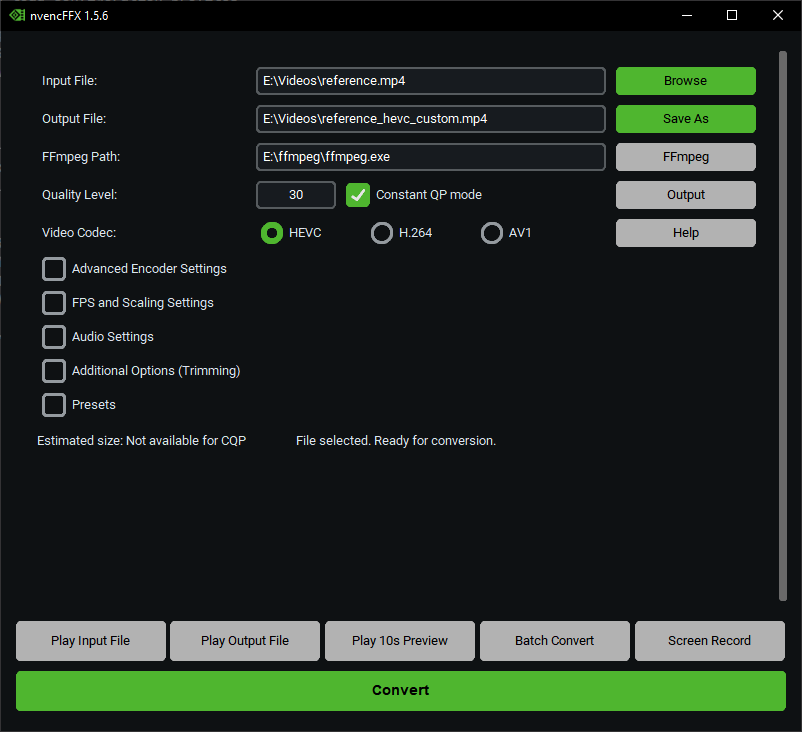
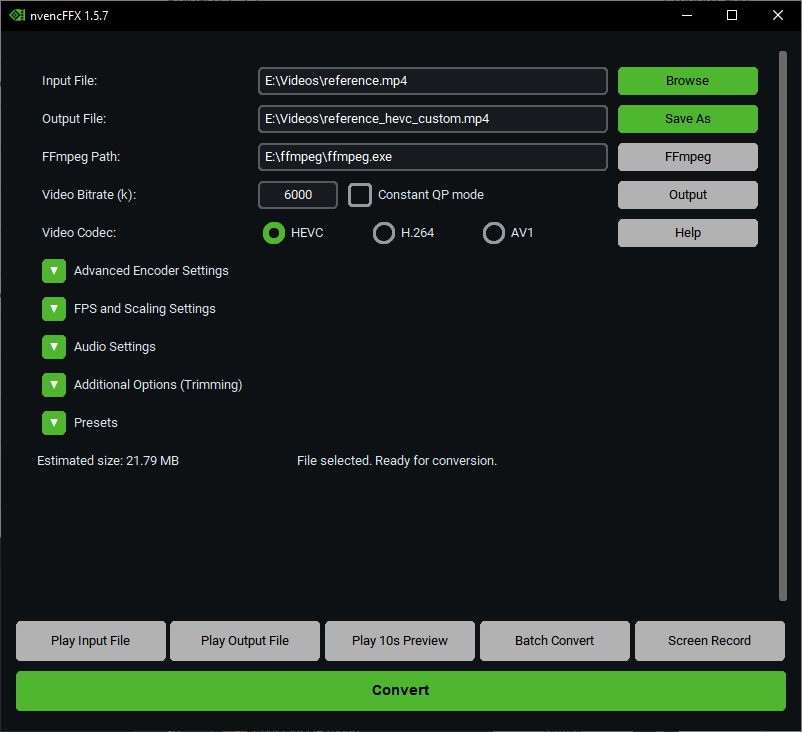
Release 1.5.7

diff --git a/nvencFFX.py b/nvencFFX.py
@@ -38,6 +38,79 @@ TEXT_COLOR_B = "#000000"
 PLACEHOLDER_COLOR = "#a0a0a0"
 
 
+class TextCheckbox(ctk.CTkFrame):
+    def __init__(self, master=None, text="", variable=None, command=None, **kwargs):
+        super().__init__(master, **kwargs)
+        self.configure(fg_color="transparent")
+
+        self.var = variable if variable is not None else ctk.BooleanVar()
+        self.command = command
+        self.text = text
+
+        self.unchecked_char = "▼"
+        self.checked_char = "▲"
+
+        # Main container for checkbox and text
+        self.container = ctk.CTkFrame(self, fg_color="transparent")
+        self.container.pack(anchor="w", fill="x")
+
+        # Checkbox as a label
+        self.checkbox_label = ctk.CTkLabel(
+            self.container,
+            text=self.unchecked_char,
+            width=24,
+            height=24,
+            corner_radius=6,
+            fg_color=ACCENT_GREEN,
+            text_color=TEXT_COLOR_W,
+            cursor="hand2",
+        )
+        self.checkbox_label.pack(side="left", padx=(0, 8))
+
+        # Text label
+        self.text_label = ctk.CTkLabel(
+            self.container,
+            text=text,
+            cursor="hand2",
+        )
+        self.text_label.pack(side="left", fill="x", expand=True)
+
+        # Bind click events to both labels
+        self.checkbox_label.bind("<Button-1>", self.toggle)
+        self.text_label.bind("<Button-1>", self.toggle)
+
+        # Hover effects
+        self.checkbox_label.bind("<Enter>", self._on_hover)
+        self.checkbox_label.bind("<Leave>", self._on_leave)
+        self.text_label.bind("<Enter>", self._on_hover)
+        self.text_label.bind("<Leave>", self._on_leave)
+
+        self.var.trace_add("write", self.update_display)
+
+    def _on_hover(self, event):
+        self.checkbox_label.configure(fg_color=HOVER_GREEN)
+
+    def _on_leave(self, event):
+        self.checkbox_label.configure(fg_color=ACCENT_GREEN)
+
+    def toggle(self, event=None):
+        self.var.set(not self.var.get())
+        if self.command:
+            self.command()
+
+    def update_display(self, *args):
+        if self.var.get():
+            self.checkbox_label.configure(text=self.checked_char)
+        else:
+            self.checkbox_label.configure(text=self.unchecked_char)
+
+    def get(self):
+        return self.var.get()
+
+    def set(self, value):
+        self.var.set(value)
+
+
 class DropTarget:
     def __init__(self, hwnd, callback):
         self.hwnd = hwnd
@@ -527,7 +600,7 @@ class VideoConverterApp:
         self.batch_files = []
         self.video_metadata_cache = {}
         self.master = master
-        master.title("nvencFFX 1.5.6")
+        master.title("nvencFFX 1.5.7")
         master.geometry("800x700")
         master.minsize(800, 700)
         master.maxsize(800, 900)
@@ -917,13 +990,11 @@ class VideoConverterApp:
         av1_rb.pack(side="left", padx=5)
 
         # Encoder Options
-        encoder_options_frame_toggle = ctk.CTkCheckBox(
+        encoder_options_frame_toggle = TextCheckbox(
             main_frame,
             text="Advanced Encoder Settings",
             variable=self.enable_encoder_options,
             command=self._toggle_encoder_options_frame,
-            fg_color=ACCENT_GREEN,
-            hover_color=HOVER_GREEN,
         )
         encoder_options_frame_toggle.grid(row=5, column=0, sticky="w", padx=10, pady=5)
 
@@ -1228,13 +1299,11 @@ class VideoConverterApp:
         ).grid(row=4, column=2, columnspan=2, sticky="w", padx=15, pady=2)
 
         # FPS and Scaling
-        fps_scale_frame_toggle = ctk.CTkCheckBox(
+        fps_scale_frame_toggle = TextCheckbox(
             main_frame,
             text="FPS and Scaling Settings",
             variable=self.enable_fps_scale_options,
             command=self._toggle_fps_scale_options_frame,
-            fg_color=ACCENT_GREEN,
-            hover_color=HOVER_GREEN,
         )
         fps_scale_frame_toggle.grid(row=7, column=0, sticky="w", padx=10, pady=5)
 
@@ -1391,13 +1460,11 @@ class VideoConverterApp:
         ).grid(row=6, column=2, sticky="w", padx=5)
 
         # Audio Settings Toggle
-        audio_frame_toggle = ctk.CTkCheckBox(
+        audio_frame_toggle = TextCheckbox(
             main_frame,
             text="Audio Settings",
             variable=self.enable_audio_options,
             command=self._toggle_audio_options_frame,
-            fg_color=ACCENT_GREEN,
-            hover_color=HOVER_GREEN,
         )
         audio_frame_toggle.grid(row=9, column=0, sticky="w", padx=10, pady=5)
 
@@ -1470,13 +1537,11 @@ class VideoConverterApp:
             rb.grid(row=1, column=i + 2, sticky="w", padx=15, pady=10)
 
         # Additional Options
-        additional_options_toggle = ctk.CTkCheckBox(
+        additional_options_toggle = TextCheckbox(
             main_frame,
             text="Additional Options (Trimming)",
             variable=self.enable_additional_options,
             command=self._toggle_additional_options_frame,
-            fg_color=ACCENT_GREEN,
-            hover_color=HOVER_GREEN,
         )
         additional_options_toggle.grid(row=11, column=0, sticky="w", padx=10, pady=5)
         self.additional_options_frame = ctk.CTkFrame(main_frame, fg_color=SECONDARY_BG)
@@ -1878,13 +1943,11 @@ class VideoConverterApp:
         ).pack(side="left")
 
         # Presets Section
-        presets_frame_toggle = ctk.CTkCheckBox(
+        presets_frame_toggle = TextCheckbox(
             main_frame,
             text="Presets",
             variable=self.enable_presets,
             command=self._toggle_presets_frame,
-            fg_color=ACCENT_GREEN,
-            hover_color=HOVER_GREEN,
         )
         presets_frame_toggle.grid(row=13, column=0, sticky="w", padx=10, pady=5)
         self.presets_frame = ctk.CTkFrame(main_frame, fg_color=SECONDARY_BG)
@@ -2902,7 +2965,7 @@ class VideoConverterApp:
                 "saved_additional_options": self.saved_additional_options.get(),
                 "saved_additional_filter_options": self.saved_additional_filter_options.get(),
                 "saved_additional_audio_filter_options": self.saved_additional_audio_filter_options.get(),
-                "version": "1.5.6",
+                "version": "1.5.7",
             }
 
             with open(settings_file, "w", encoding="utf-8") as file:
@@ -3212,27 +3275,25 @@ class VideoConverterApp:
                 raise ValueError("Video bitrate must be a number.")
 
         vf_filters = []
-        if self.enable_fps_scale_options.get():
-            fps_num = self.fps_option.get()
-            if fps_num == "custom":
-                fps_num = self.custom_fps.get()
-                if not fps_num:
-                    raise ValueError("Please specify custom FPS.")
-            if fps_num != "source":
-                vf_filters.append(f"fps={fps_num}")
-            scale_width = self.video_format_option.get()
-            if scale_width == "custom":
-                scale_width = self.custom_video_width.get()
-                if not scale_width:
-                    raise ValueError("Please specify custom video width.")
-            if scale_width != "source":
-                interp_flag = self.interpolation_algo.get()
-                vf_filters.append(f"scale={scale_width}:-2:flags={interp_flag}")
+        fps_num = self.fps_option.get()
+        if fps_num == "custom":
+            fps_num = self.custom_fps.get()
+            if not fps_num:
+                raise ValueError("Please specify custom FPS.")
+        if fps_num != "source":
+            vf_filters.append(f"fps={fps_num}")
+        scale_width = self.video_format_option.get()
+        if scale_width == "custom":
+            scale_width = self.custom_video_width.get()
+            if not scale_width:
+                raise ValueError("Please specify custom video width.")
+        if scale_width != "source":
+            interp_flag = self.interpolation_algo.get()
+            vf_filters.append(f"scale={scale_width}:-2:flags={interp_flag}")
 
-        if self.enable_additional_options.get():
-            addvf_val = self.additional_filter_options.get().strip()
-            if addvf_val and addvf_val != self.additional_filter_options_placeholder:
-                vf_filters.append(addvf_val)
+        addvf_val = self.additional_filter_options.get().strip()
+        if addvf_val and addvf_val != self.additional_filter_options_placeholder:
+            vf_filters.append(addvf_val)
 
         if vf_filters:
             command.extend(["-vf", ",".join(vf_filters)])
@@ -3310,13 +3371,12 @@ class VideoConverterApp:
             command.extend(other_additional_options)
 
         # Add audio filters if any
-        if self.enable_additional_options.get():
-            add_af_val = self.additional_audio_filter_options.get().strip()
-            if (
-                add_af_val
-                and add_af_val != self.additional_audio_filter_options_placeholder
-            ):
-                command.extend(["-af", add_af_val])
+        add_af_val = self.additional_audio_filter_options.get().strip()
+        if (
+            add_af_val
+            and add_af_val != self.additional_audio_filter_options_placeholder
+        ):
+            command.extend(["-af", add_af_val])
 
         # Audio settings
         audio_opt = self.audio_option.get()

diff --git a/README.md b/README.md
@@ -84,8 +84,8 @@ You can compile the Python script into a standalone Windows executable (`.exe`) 
         --include-data-file=nff-about.txt=./nff-about.txt ^
         --include-data-file=nff-license.txt=./nff-license.txt ^
         --product-name="nvencFFX" ^
-        --product-version="1.5.6" ^
-        --file-version="1.5.6" ^
+        --product-version="1.5.7" ^
+        --file-version="1.5.7" ^
         --file-description="nvencFFX" ^
         --company-name="Deepseek Enjoyer" ^
         --copyright="Copyright (C) 2025 hadouken" ^

diff --git a/CHANGELOG.md b/CHANGELOG.md
@@ -1,5 +1,8 @@
 # nvencFFX - Changelog
 
+## [1.5.7] - 2025-11-15
+- UI/UX fixes and updates.
+
 ## [1.5.6] - 2025-10-28
 - Additional Options: Added "Save/Load" buttons for custom filter settings;
 - UI fixes.
